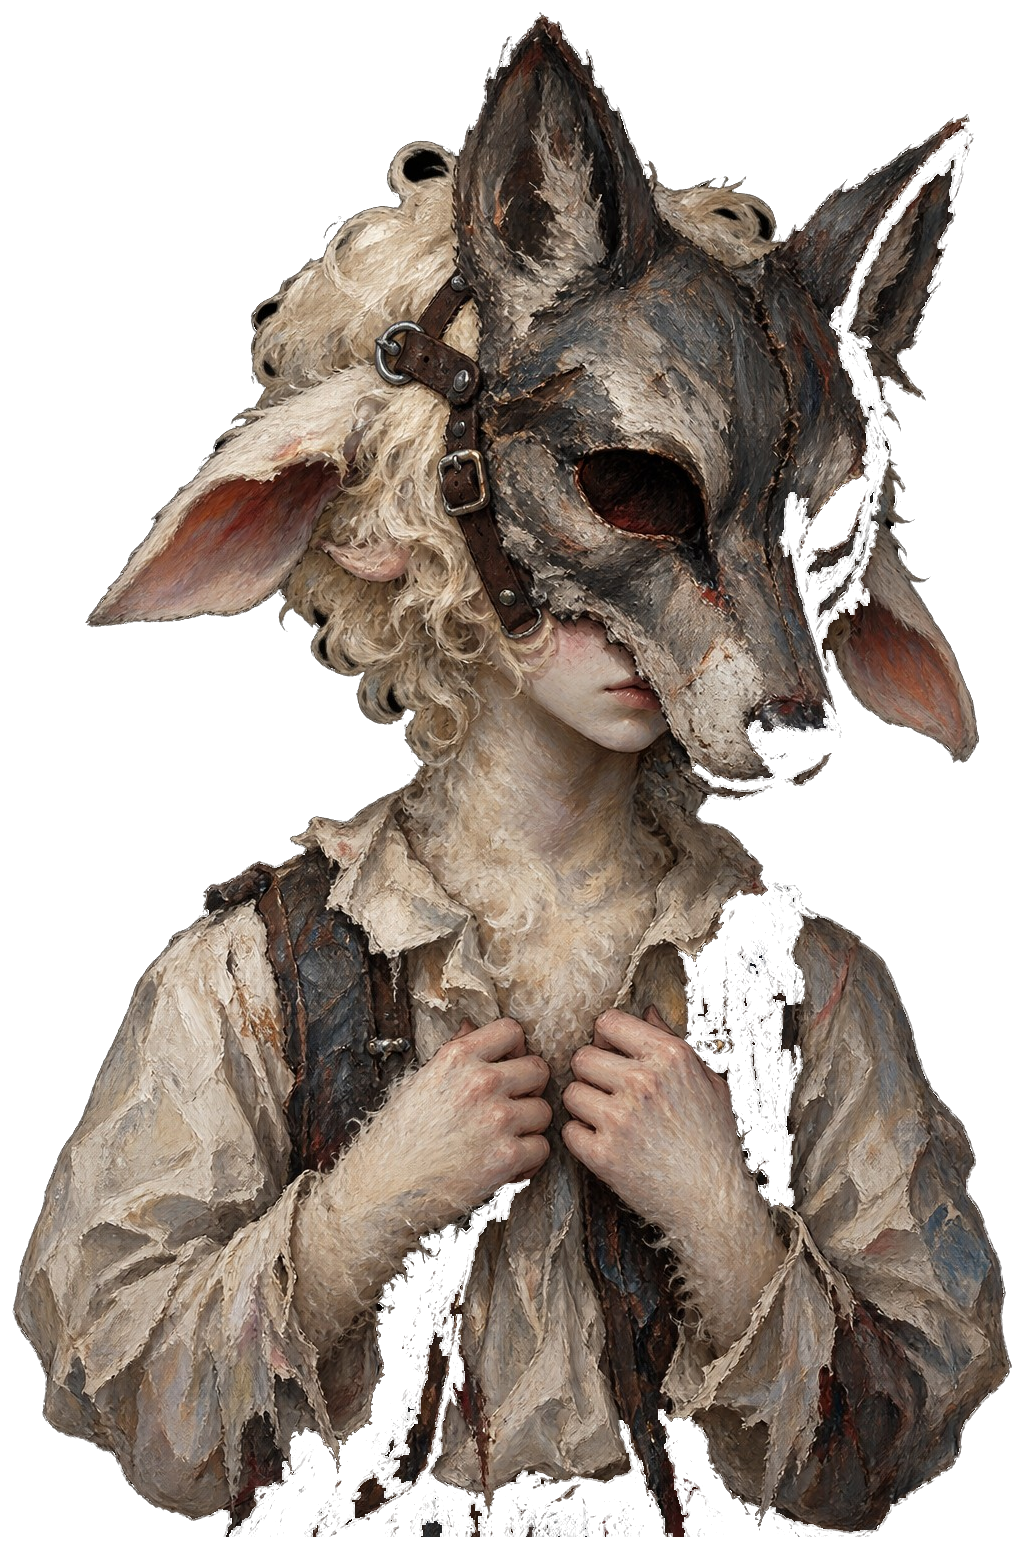
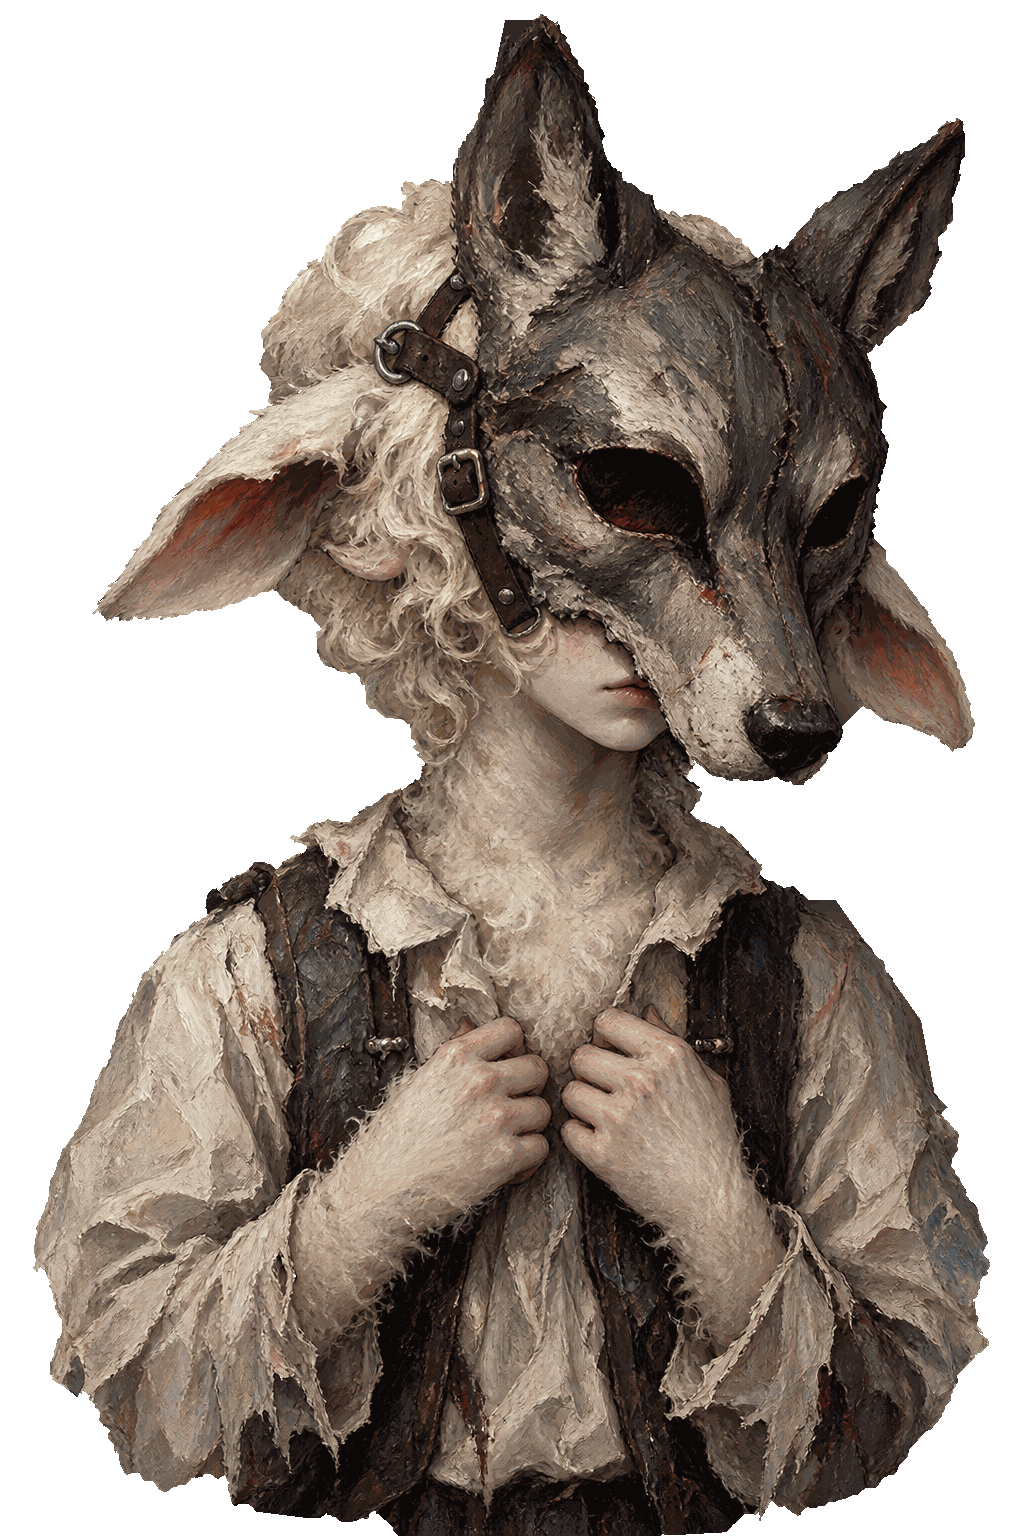
犬迷子イベントのセリフ表示と狼少年PNGを修正

Changed region(s): [[0.0, 0.0, 1.0, 1.0]]

diff --git a/js/events/dog-search-event.js b/js/events/dog-search-event.js
@@ -9,7 +9,7 @@ const EXCLUSIVE_VALUE = 'dog-search';
 const FINAL_WAIT_MS = 2000;
 
 const ASSETS = Object.freeze({
-  wolfBoy: './assets/images/events/wolf-boy.png',
+  wolfBoy: './assets/images/events/wolf-boy.png?v=0.10.963-wolf-alpha-fix',
   butler: './assets/images/events/sheep-butler.png',
   cabbage: './assets/images/events/dog-search-cabbage.png',
   dog: './assets/images/events/dog-search-shepherd.png',
@@ -131,7 +131,7 @@ function installStyle() {
   background:linear-gradient(180deg,rgba(0,0,0,.08),rgba(0,0,0,.02) 48%,rgba(0,0,0,.30));
 }
 #${OVERLAY_ID} .main-screen{position:relative;z-index:2;height:100%}
-#${OVERLAY_ID} .visit-character-event{min-height:100dvh!important;height:100dvh!important}
+#${OVERLAY_ID} .visit-character-event{min-height:100%!important;height:100%!important}
 #${OVERLAY_ID} .dog-search-question{
   position:absolute;z-index:4;left:50%;top:50%;transform:translate(-50%,-50%);
   border:0;background:transparent;color:#fff;font:700 clamp(32px,7vw,72px)/1.1 inherit;
